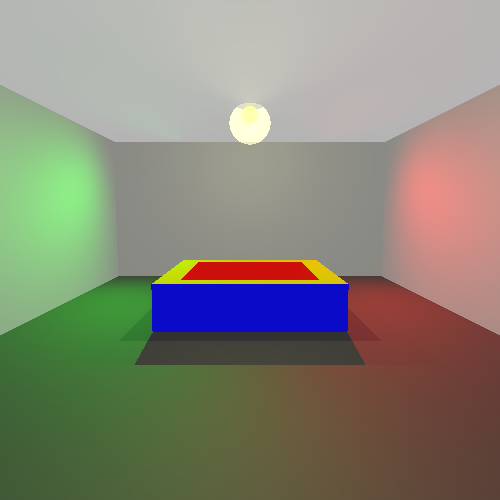
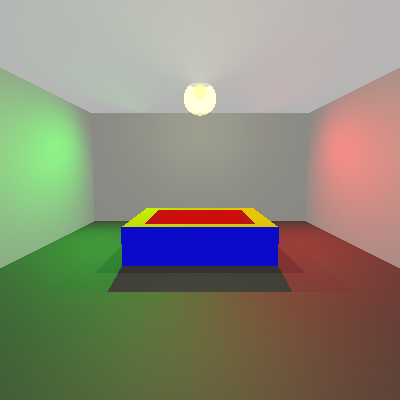
continue the image.

Changed region(s): [[0.6, 0.54, 0.69, 0.57], [0.3, 0.54, 0.39, 0.57]]

diff --git a/unitTests/renderer/FinalTest.java b/unitTests/renderer/FinalTest.java
@@ -40,43 +40,48 @@ public class FinalTest {
     class BallsPool extends Geometries{
         BallsPool(Point center, Material m){
             super();
-            Point b1 = center.add(new Vector(-40, -40, 0))
+            Point b1 = center.add(new Vector(-40, -40, 0)) //b- base
                     ,b2 = center.add(new Vector(40, -40, 0))
                     ,b3 = center.add(new Vector(40, 40, 0))
-                    ,b4 = center.add(new Vector(-40, 40, 0));
-            Point u1 = center.add(new Vector(-40, -40, 20))
+                    ,b4 = center.add(new Vector(-40, 40, 0))
+
+                    ,u1 = center.add(new Vector(-40, -40, 20)) //u- up
                     ,u2 = center.add(new Vector(40, -40, 20))
                     ,u3 = center.add(new Vector(40, 40, 20))
-                    ,u4 = center.add(new Vector(-40, 40, 20));
-            Point bi1 = center.add(new Vector(-30, -30, 2))
+                    ,u4 = center.add(new Vector(-40, 40, 20))
+
+                    ,bi1 = center.add(new Vector(-30, -30, 2)) //bi- base inside
                     ,bi2 = center.add(new Vector(30, -30, 2))
                     ,bi3 = center.add(new Vector(30, 30, 2))
-                    ,bi4 = center.add(new Vector(-30, 30, 2));
-            Point ui1 = center.add(new Vector(-30, -30, 20))
+                    ,bi4 = center.add(new Vector(-30, 30, 2))
+
+                    ,ui1 = center.add(new Vector(-30, -30, 20)) //ui- up inside
                     ,ui2 = center.add(new Vector(30, -30, 20))
                     ,ui3 = center.add(new Vector(30, 30, 20))
                     ,ui4 = center.add(new Vector(-30, 30, 20));
-            Color red = new Color(200, 10, 10);
+
+            Color red1 = new Color(200, 10, 10);
+            Color red2 = new Color(180, 15, 15);
             Color blue = new Color(10,10,200);
             Color yellow = new Color(180,180,0);
-            super.add(new Rec(b1, b2, b3, b4, blue, m) ,
-                      new Rec(b1, b2, u2, u1, blue, m) ,
+
+            super.add(new Rec(b1, b2, b3, b4, blue, m) , //base
+                      new Rec(b1, b2, u2, u1, blue, m) , //sides
                       new Rec(b3, b2, u2, u3, blue, m) ,
                       new Rec(b3, b4, u4, u3, blue, m) ,
                       new Rec(b1, b4, u4, u1, blue, m),
-                      new Rec(bi1, bi2, bi3, bi4, new Color(ORANGE), m) ,
-                      new Rec(u1, u2, ui2, ui1, yellow, m) ,
+                      new Rec(bi1, bi2, bi3, bi4, red2, m) , //internal base
+                      new Rec(u1, u2, ui2, ui1, yellow, m) , //up
                       new Rec(u3, u2, ui2, ui3, yellow, m) ,
                       new Rec(u3, u4, ui4, ui3, yellow, m) ,
                       new Rec(u1, u4, ui4, ui1, yellow, m),
-                      new Rec(ui1, ui2, bi2, bi1, red, m) ,
-                      new Rec(ui3, ui2, bi2, bi3, red, m) ,
-                      new Rec(ui3, ui4, bi4, bi3, red, m) ,
-                      new Rec(ui1, ui4, bi4, bi1, red, m));
+                      new Rec(ui1, ui2, bi2, bi1, red1, m) , //internal sides
+                      new Rec(ui3, ui2, bi2, bi3, red2, m) ,
+                      new Rec(ui3, ui4, bi4, bi3, red1, m) ,
+                      new Rec(ui1, ui4, bi4, bi1, red2, m));
         }
     }
 
-    @Test
     public void testAll() {
         class Chair extends Geometries {
             //static private Point p1=new Point(0,0,0), p2=new Point(1,0,0), p3=new Point(0,0,1.5), p4=new Point(1, 0, 1.5),
@@ -120,7 +125,6 @@ public class FinalTest {
         camera2.writeToImage();
     }
 
-    @Test
     public void testPool() {
         Point b1 = new Point(-10, -20, -10);
         Point b2 = new Point(10, -20, -10);
@@ -194,18 +198,21 @@ public class FinalTest {
         Color yellow = new Color(180,180,0);
 
         Material wallM = new Material().setKd(0.5).setKs(0.5).setShininess(5);
-        Material poolM = new Material().setKd(0.5).setKs(0.5).setShininess(50);
+        Material poolM = new Material().setKd(0.5).setKs(0.9).setShininess(500);
+        Material floorM=new Material().setKd(0.5).setKs(0.5).setShininess(5).setKr(0.1);
 
         Point lightPlace=new Point(0, 0,96);
 
         Scene scene = new Scene("pool");
         Camera camera = new Camera(new Point(0, -200, 50), new Vector(0, 10, -1), new Vector(0, 1, 10)) //
                 .setVPSize(250, 250).setVPDistance(200);
-        scene.geometries.add(new Plane(new Point(0, 100, 0), new Vector(0, -1, 0)).setEmission(wallE).setMaterial(wallM));
-        scene.geometries.add(new Plane(new Point(100, 0, 0), new Vector(-1, 0, 0)).setEmission(wallE).setMaterial(wallM));
-        scene.geometries.add(new Plane(new Point(-100, 0, 0), new Vector(1, 0, 0)).setEmission(wallE).setMaterial(wallM));
-        scene.geometries.add(new Plane(new Point(0, 0, 0), new Vector(0, 0, 1)).setEmission(new Color(50,50,50)).setMaterial(wallM));
-        scene.geometries.add(new Plane(new Point(0, 0, 100), new Vector(0, 0, -1)).setEmission(new Color(180,180,180)).setMaterial(wallM));
+        Camera cameraUp = new Camera(new Point(0, -100, 90), new Vector(0, 10, -9), new Vector(0, 9, 10)) //
+                .setVPSize(250, 250).setVPDistance(150);
+        scene.geometries.add(new Plane(new Point(0, 100, 0), new Vector(0, -1, 0)).setEmission(wallE).setMaterial(wallM)); //wall
+        scene.geometries.add(new Plane(new Point(100, 0, 0), new Vector(-1, 0, 0)).setEmission(wallE).setMaterial(wallM)); //right wall
+        scene.geometries.add(new Plane(new Point(-100, 0, 0), new Vector(1, 0, 0)).setEmission(wallE).setMaterial(wallM)); //left wall
+        scene.geometries.add(new Plane(new Point(0, 0, 0), new Vector(0, 0, 1)).setEmission(new Color(50,50,50)).setMaterial(wallM)); //floor
+        scene.geometries.add(new Plane(new Point(0, 0, 100), new Vector(0, 0, -1)).setEmission(new Color(180,180,180)).setMaterial(wallM)); //tikra
 
         scene.geometries.add(new BallsPool(new Point(0,0,0), poolM));
         scene.geometries.add(new Sphere(lightPlace, 4).setEmission(yellow).setMaterial(new Material().setKd(0.5).setKs(0.5).setShininess(50).setKt(0.85)));
@@ -228,12 +235,16 @@ public class FinalTest {
         //scene.geometries.add(new Rec(ui3, ui4, bi4, bi3, red, poolM));
         //scene.geometries.add(new Rec(ui1, ui4, bi4, bi1, red, poolM));
 
-        scene.lights.add(new SpotLight(new Color(RED), new Point(50,99, 99), new Vector(50,-99,-100)).setNarrowBeam(5).setKl(0.0001).setKq(0.00001));
-        scene.lights.add(new SpotLight(new Color(GREEN), new Point(-50,99, 99), new Vector(-50,-99,-100)).setNarrowBeam(5).setKl(0.0001).setKq(0.00001));
+        scene.lights.add(new SpotLight(new Color(RED), new Point(50,99, 99), new Vector(50,-99,-100)).setNarrowBeam(4).setKl(0.0001).setKq(0.00001));
+        scene.lights.add(new SpotLight(new Color(GREEN), new Point(-50,99, 99), new Vector(-50,-99,-100)).setNarrowBeam(4).setKl(0.0001).setKq(0.00001));
         scene.lights.add(new PointLight(new Color(40, 40, 20), lightPlace));
-        camera.setImageWriter(new ImageWriter("ballsPool", 500, 500)) //
+        camera.setImageWriter(new ImageWriter("ballsPool", 400, 400)) //
                 .setRayTracer(new RayTracerBasic(scene)) //
                 .renderImage(); //
         camera.writeToImage();
+        cameraUp.setImageWriter(new ImageWriter("ballsPoolUp", 400, 400)) //
+                .setRayTracer(new RayTracerBasic(scene)) //
+                .renderImage(); //
+        cameraUp.writeToImage();
     }
 }
